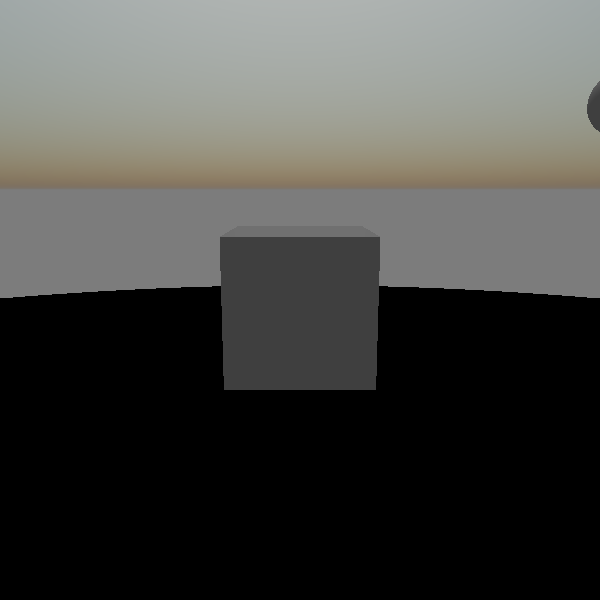
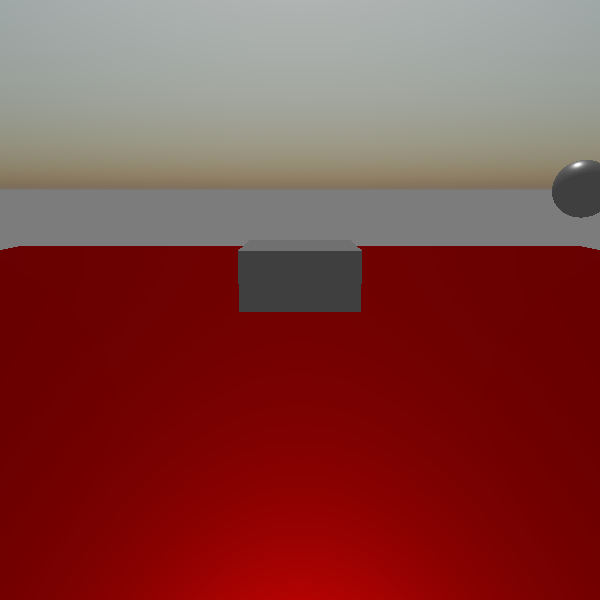
fix(examples): initialize components in TPS
The input fixes meant that the player components weren't attached on startup, resulting in the player's camera not being updated.

diff --git a/guest/rust/examples/basics/third_person_camera/src/server.rs b/guest/rust/examples/basics/third_person_camera/src/server.rs
@@ -51,12 +51,15 @@ pub fn main() {
                 id,
                 Entity::new()
                     .with_merge(make_transformable())
+                    .with_default(player_movement_direction())
+                    .with_default(player_mouse_delta_x())
+                    .with_default(player_scroll())
+                    .with_default(physics_controlled())
                     .with_default(cube())
                     .with(color(), Vec4::ONE)
                     .with(character_controller_height(), 2.)
                     .with(character_controller_radius(), 0.5)
-                    .with(camera_follow_distance(), 4.0)
-                    .with_default(physics_controlled()),
+                    .with(camera_follow_distance(), 4.0),
             );
         }
     });
@@ -64,9 +67,9 @@ pub fn main() {
     messages::Input::subscribe(move |source, msg| {
         let Some(player_id) = source.client_entity_id() else { return; };
 
-        entity::add_component(player_id, player_movement_direction(), msg.direction);
-        entity::add_component(player_id, player_mouse_delta_x(), msg.mouse_delta_x);
-        entity::add_component(player_id, player_scroll(), msg.scroll);
+        entity::set_component(player_id, player_movement_direction(), msg.direction);
+        entity::set_component(player_id, player_mouse_delta_x(), msg.mouse_delta_x);
+        entity::set_component(player_id, player_scroll(), msg.scroll);
     });
 
     query((
